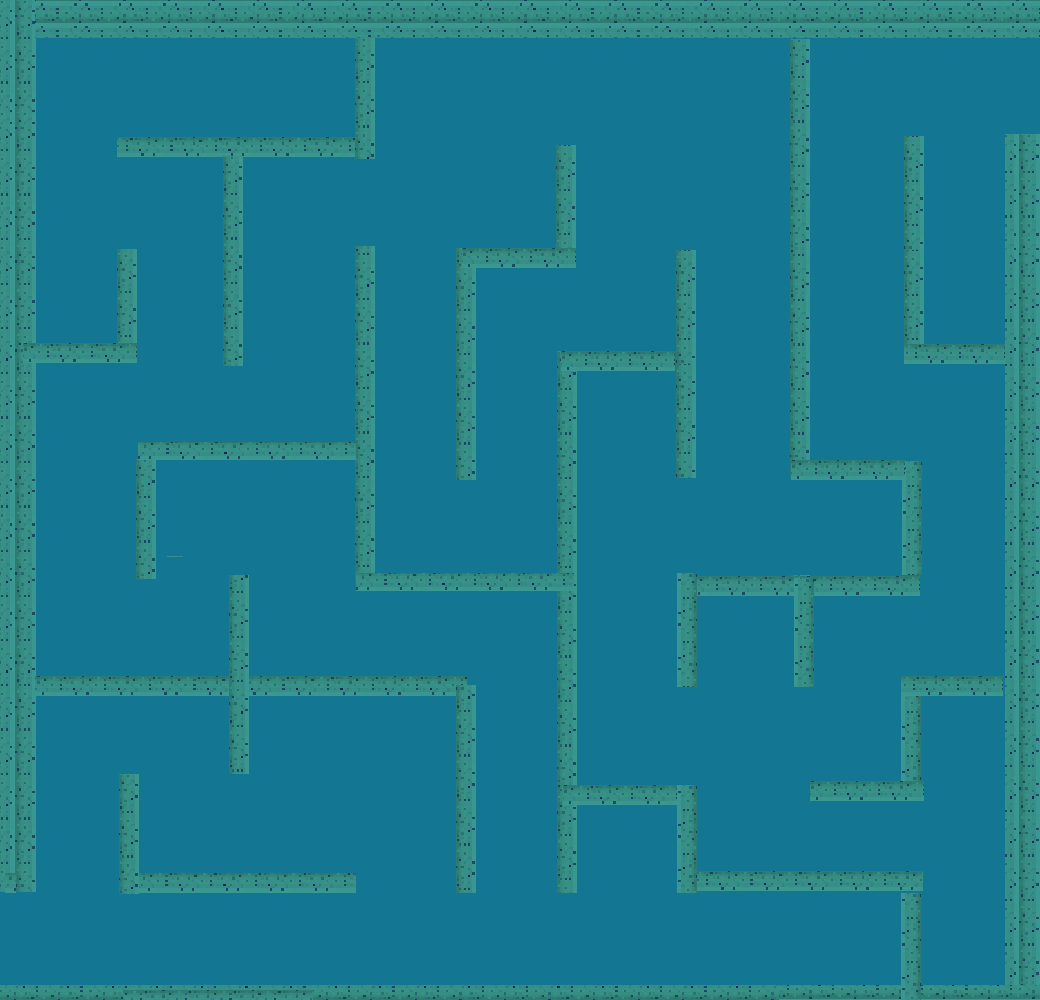
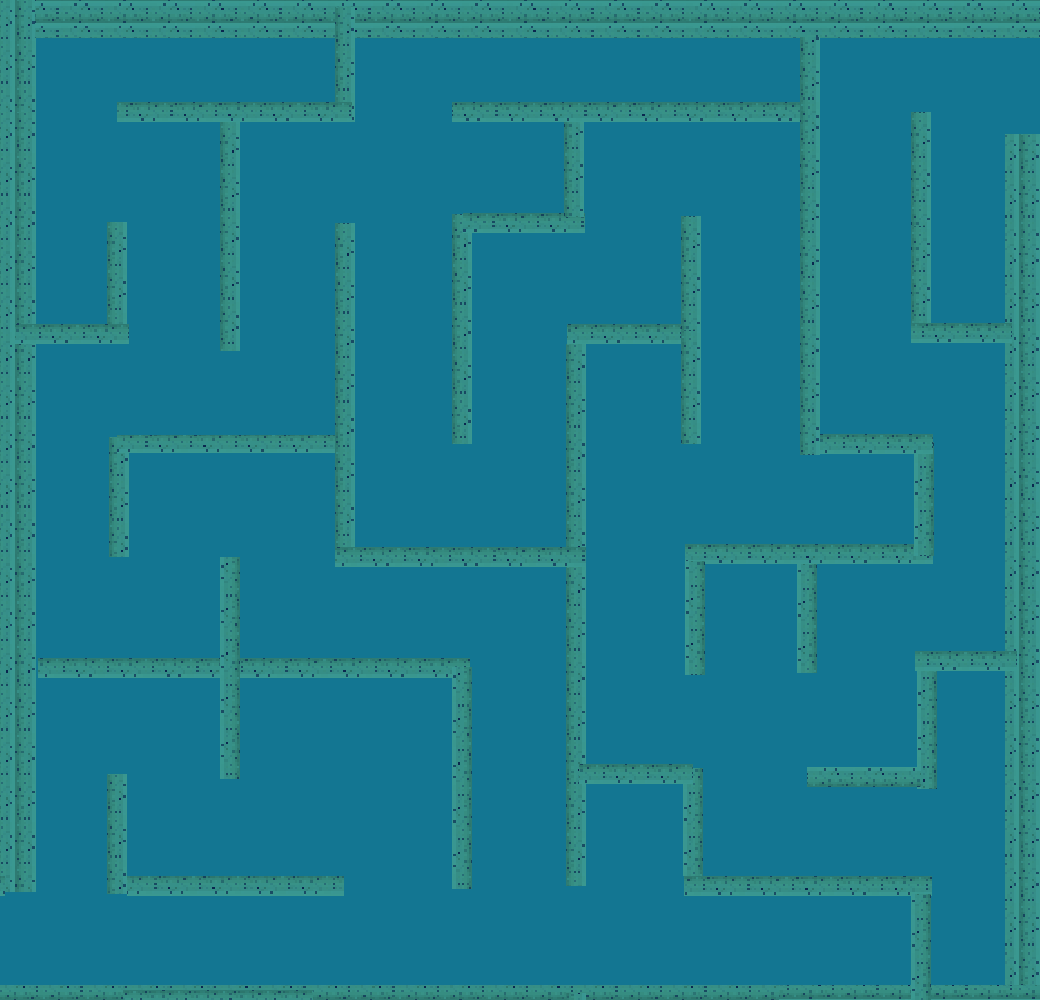
Fixed Background

diff --git a/RPG/MeuRPGZinUWP/Fase1.xaml b/RPG/MeuRPGZinUWP/Fase1.xaml
@@ -21,7 +21,7 @@
         <Canvas Grid.Row="0" x:Name="canvasMap">
             <TextBlock x:Name="tempo" Foreground="DarkTurquoise" Text="TEMPO RESTANTE: 50s" Width="481" Height="50" FontSize="35" FontFamily="roboto" TextWrapping="Wrap">
             </TextBlock>
-            <Image x:Name="lab1" Stretch="UniformToFill" Source="Assets/lab_fase1.png" Height="700" Width="700" FocusVisualPrimaryBrush="Black" Canvas.Top="48">
+            <Image x:Name="lab1" Stretch="UniformToFill" Source="Assets/lab_fundo_do_mar.png" Height="700" Width="700" FocusVisualPrimaryBrush="Black" Canvas.Top="48">
             </Image>
 
             <Image x:Name="feiticeiraImg" Source="Assets/feiticeira_front.png"  Height="56" Width="56" Canvas.Top="683" Canvas.Left="10" >
@@ -30,23 +30,23 @@
                 </Image.RenderTransform>
             </Image>
 
-            <Image x:Name="moeda0" Source="Assets/moeda_front.png"  Height="36" Width="36" Canvas.Top="98" Canvas.Left="350" Stretch="Fill" >
+            <Image x:Name="moeda0" Source="Assets/moeda_front.png"  Height="36" Width="36" Canvas.Top="80" Canvas.Left="350" Stretch="Fill" >
 
             </Image>
 
-            <Image x:Name="moeda1" Source="Assets/moeda_front.png"  Height="36" Width="36" Canvas.Top="98" Canvas.Left="425" Stretch="Fill" >
+            <Image x:Name="moeda1" Source="Assets/moeda_front.png"  Height="36" Width="36" Canvas.Top="78" Canvas.Left="425" Stretch="Fill" >
 
             </Image>
 
-            <Image x:Name="moeda2" Source="Assets/moeda_front.png"  Height="36" Width="36" Canvas.Top="98" Canvas.Left="567" Stretch="Fill" >
+            <Image x:Name="moeda2" Source="Assets/moeda_front.png"  Height="36" Width="36" Canvas.Top="98" Canvas.Left="571" Stretch="Fill" >
 
             </Image>
 
-            <Image x:Name="moeda3" Source="Assets/moeda_front.png"  Height="36" Width="36" Canvas.Top="175" Canvas.Left="567" Stretch="Fill" >
+            <Image x:Name="moeda3" Source="Assets/moeda_front.png"  Height="36" Width="36" Canvas.Top="175" Canvas.Left="571" Stretch="Fill" >
 
             </Image>
 
-            <Image x:Name="moeda4" Source="Assets/moeda_front.png"  Height="36" Width="36" Canvas.Top="255" Canvas.Left="567" Stretch="Fill" >
+            <Image x:Name="moeda4" Source="Assets/moeda_front.png"  Height="36" Width="36" Canvas.Top="255" Canvas.Left="571" Stretch="Fill" >
 
             </Image>
 
@@ -62,7 +62,7 @@
 
             </Image>
 
-            <Image x:Name="whey" Source="Assets/pocao_whey.png"  Height="36" Width="36" Canvas.Top="98" Canvas.Left="178" Stretch="Fill" />
+            <Image x:Name="whey" Source="Assets/pocao_whey.png"  Height="36" Width="36" Canvas.Top="76" Canvas.Left="178" Stretch="Fill" />
 
 
         </Canvas>

diff --git a/RPG/MeuRPGZinUWP/gameOverBatalha.xaml b/RPG/MeuRPGZinUWP/gameOverBatalha.xaml
@@ -6,9 +6,35 @@
     xmlns:d="http://schemas.microsoft.com/expression/blend/2008"
     xmlns:mc="http://schemas.openxmlformats.org/markup-compatibility/2006"
     mc:Ignorable="d"
-    Background="{ThemeResource ApplicationPageBackgroundThemeBrush}">
+    Height="700" Width="1300"
+    Background="Black">
+
 
     <Grid>
-        <Button Width="1000" Height="200" HorizontalAlignment="Center" Click="HandleClick"/>
+
+        <Canvas Background="Gray">
+
+            <TextBlock Width="486" Height="100" Text="GAME OVER" FontFamily="Cardinal" FontSize="60" Canvas.Left="432" Canvas.Top="30"></TextBlock>
+
+            <Image Source="Assets/feiticeira_morta.png" Width="300" Height="300" Canvas.Left="376" Canvas.Top="189"></Image>
+            <Image Source="Assets/balao.png" Width="344" Height="295" Canvas.Left="614" Canvas.Top="111"></Image>
+
+            <TextBlock Width="183" Height="65" Text="UI UI UI" Foreground="Black" FontSize="50" Canvas.Left="699" 
+             Canvas.Top="156" RenderTransformOrigin="0.523,0.675"></TextBlock>
+
+            <TextBlock Width="149" Height="65" Text="morri" Foreground="Black" FontSize="50" Canvas.Left="725" 
+             Canvas.Top="200" RenderTransformOrigin="0.523,0.675"></TextBlock>
+
+            <TextBlock Width="1114" Height="64" Text="Você foi derrotada! Clique em continuar para batalhar novamente" 
+                       FontFamily="Cardinal" FontSize="50" Canvas.Left="93" Canvas.Top="489"></TextBlock>
+
+            <Button x:Name="continuar"  Width="300" Height="103" Canvas.Left="486" FontFamily="Cardinal" FontSize="60" BorderBrush="Black"
+            Canvas.Top="573"   Click="handleClick" Background="DarkGray" Content="Continuar">
+
+            </Button>
+
+
+        </Canvas>
+
     </Grid>
 </Page>

diff --git a/RPG/MeuRPGZinUWP/venceuBatalha1.xaml b/RPG/MeuRPGZinUWP/venceuBatalha1.xaml
@@ -7,11 +7,11 @@
     xmlns:mc="http://schemas.openxmlformats.org/markup-compatibility/2006"
     mc:Ignorable="d"
     Height="700" Width="1300"
-    Background="Gray">
+    Background="Black">
 
     <Grid>
 
-        <Canvas >
+        <Canvas Background="Gray">
 
             <Image Source="Assets/moeda_front.png" Width="81" Height="81" Canvas.Left="1109" Canvas.Top="314" RenderTransformOrigin="0.084,0.528"></Image>
             <Image Source="Assets/rei_sereiano.png" Width="200" Height="200" Canvas.Left="1090" Canvas.Top="10" RenderTransformOrigin="0.759,0.519"></Image>

diff --git a/RPG/MeuRPGZinUWP/venceuBtalha2.xaml b/RPG/MeuRPGZinUWP/venceuBtalha2.xaml
@@ -7,12 +7,12 @@
     xmlns:mc="http://schemas.openxmlformats.org/markup-compatibility/2006"
     mc:Ignorable="d"
     Height="700" Width="1300"
-    Background="Gray">
+    Background="Black">
 
 
-    <Grid>
+    <Grid >
 
-        <Canvas>
+        <Canvas Background="Gray">
 
             <Image Source="Assets/fada_king_front.png" Width="200" Height="200" Canvas.Left="1090" Canvas.Top="10"></Image>
             <Image Source="Assets/moeda_front.png" Width="81" Height="81" Canvas.Left="1109" Canvas.Top="314" RenderTransformOrigin="0.084,0.528"></Image>

diff --git a/RPG/MeuRPGZinUWP/venceuBatalha3.xaml b/RPG/MeuRPGZinUWP/venceuBatalha3.xaml
@@ -7,10 +7,10 @@
     xmlns:mc="http://schemas.openxmlformats.org/markup-compatibility/2006"
     mc:Ignorable="d"
     Height="700" Width="1300"
-    Background="Gray">
+    Background="Black">
 
     <Grid>
-        <Canvas >
+        <Canvas Background="Gray">
 
             <Image Source="Assets/moeda_front.png" Width="81" Height="81" Canvas.Left="1114" Canvas.Top="277" RenderTransformOrigin="0.084,0.528"></Image>
             <Image Source="Assets/barbaro_front.png" Width="200" Height="200" Canvas.Left="1095" RenderTransformOrigin="0.759,0.519"/>

diff --git a/RPG/MeuRPGZinUWP/TelaInicio.xaml b/RPG/MeuRPGZinUWP/TelaInicio.xaml
@@ -6,13 +6,13 @@
     xmlns:d="http://schemas.microsoft.com/expression/blend/2008"
     xmlns:mc="http://schemas.openxmlformats.org/markup-compatibility/2006"
      Height="700" Width="1300"
-    Background="Gray"
+    Background="Black"
     mc:Ignorable="d"
     >
 
     <Grid>
 
-        <Canvas>
+        <Canvas Background="Gray">
 
             <TextBlock Width="1045" Height="100" Canvas.Left="129" Canvas.Top="45" Text="Uma jornada por Ardens Missus"
              FontSize="80" FontFamily="Cardinal"

diff --git a/RPG/MeuRPGZinUWP/gameOver.xaml b/RPG/MeuRPGZinUWP/gameOver.xaml
@@ -9,10 +9,10 @@
     mc:Ignorable="d"
     Height="700" Width="1300"
     
-    Background="Gray">
+    Background="Black">
 
     <Grid>
-        <Canvas RenderTransformOrigin="0.47,0.441">
+        <Canvas RenderTransformOrigin="0.47,0.441" Background="Gray">
             <TextBlock Width="379" Height="69"  FontSize ="55" Text="GAME OVER" Canvas.Left="487" Canvas.Top="37" FontFamily="Cardinal" ></TextBlock>
 
             <TextBlock Width="927" Height="86" FontSize ="65" FontFamily="Cardinal"

diff --git a/RPG/MeuRPGZinUWP/telaInicio2.xaml b/RPG/MeuRPGZinUWP/telaInicio2.xaml
@@ -7,12 +7,12 @@
     xmlns:mc="http://schemas.openxmlformats.org/markup-compatibility/2006"
     mc:Ignorable="d"
     Height="700" Width="1300"
-    Background="Gray"
+    Background="Black"
    >
 
     <Grid>
 
-        <Canvas>
+        <Canvas Background="Gray">
 
             <TextBlock Width="1192" Height="88" Text="Ápos descobrir a verdade sobre a história de Ardens Missus, e ter seu" 
              Canvas.Left="69" Canvas.Top="45" FontSize="45" FontFamily="Cardinal"></TextBlock>

diff --git a/RPG/MeuRPGZinUWP/venceuJogo.xaml b/RPG/MeuRPGZinUWP/venceuJogo.xaml
@@ -7,12 +7,12 @@
     xmlns:mc="http://schemas.openxmlformats.org/markup-compatibility/2006"
     mc:Ignorable="d"
     Height="700" Width="1300"
-    Background="Gray"
+    Background="Black"
     >
 
     <Grid>
 
-        <Canvas>
+        <Canvas Background="Gray">
             <TextBlock Width="1144" Height="82" Canvas.Left="63" Canvas.Top="57" FontSize="50" FontFamily="Cardinal"
             Text="Parabéns Feiticeira, você venceu todos os obstáculos e chegou ao"></TextBlock>
 

diff --git a/RPG/MeuRPGZinUWP/venceuLab2.xaml b/RPG/MeuRPGZinUWP/venceuLab2.xaml
@@ -7,10 +7,10 @@
     xmlns:mc="http://schemas.openxmlformats.org/markup-compatibility/2006"
     mc:Ignorable="d"
     Height="700" Width="1300"
-    Background="Gray">
+    Background="Black">
 
     <Grid>
-        <Canvas>
+        <Canvas Background="Gray">
 
             <TextBlock Height="100" FontSize="60" FontFamily="Cardinal"
         Text="Parabéns feiticeira, você venceu o segundo labirinto!" Canvas.Left="117" Canvas.Top="49"/>

diff --git a/RPG/MeuRPGZinUWP/venceuLab3.xaml b/RPG/MeuRPGZinUWP/venceuLab3.xaml
@@ -7,10 +7,10 @@
     xmlns:mc="http://schemas.openxmlformats.org/markup-compatibility/2006"
     mc:Ignorable="d"
     Height="700" Width="1300"
-    Background="Gray">
+    Background="Black">
 
     <Grid>
-        <Canvas>
+        <Canvas Background="Gray">
             <TextBlock Height="100" FontSize="60" FontFamily="Cardinal"
         Text="Parabéns feiticeira, você venceu o terceiro labirinto!" Canvas.Left="81" Canvas.Top="69"/>
 

diff --git a/RPG/MeuRPGZinUWP/venceuLab1.xaml b/RPG/MeuRPGZinUWP/venceuLab1.xaml
@@ -7,11 +7,11 @@
     xmlns:mc="http://schemas.openxmlformats.org/markup-compatibility/2006"
     mc:Ignorable="d"
     Height="700" Width="1300"
-    Background="Gray">
+    Background="Black">
 
     <Grid>
 
-        <Canvas>
+        <Canvas Background="Gray">
 
             <Image Source="Assets/underwater_blur.png" Height="700" Width="1300" Canvas.Top="-10"/>
 
